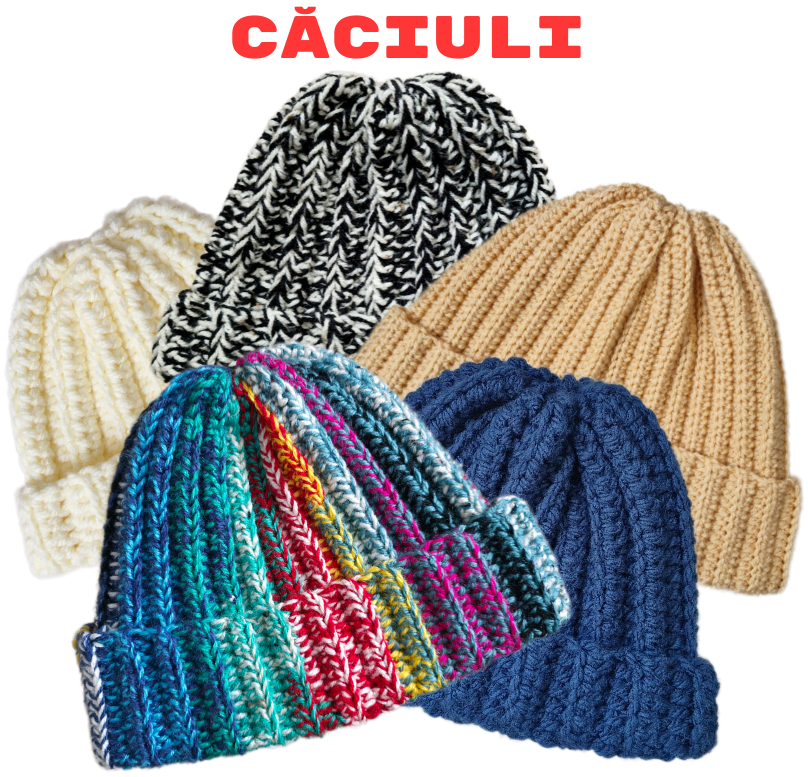
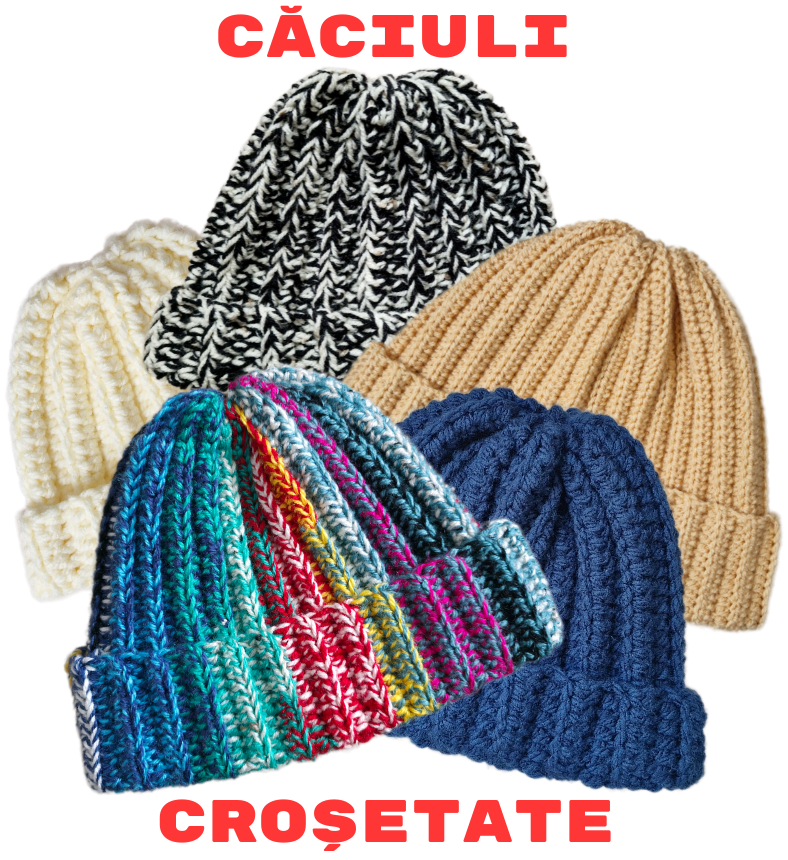
add dolls section

diff --git a/src/App.js b/src/App.js
@@ -1,12 +1,15 @@
 import './App.css';
 import { useState, useMemo, useEffect, useRef } from 'react';
 import { NavLink, Routes, Route, useLocation } from 'react-router-dom';
+
 import { animals } from './animals';
 import { wearables } from './wearables';
 import { homeware } from './homeware';
+
 import plushies from './products/plushies.png';
 import beanies from './products/beanies.png';
 import baskets from './products/baskets.png';
+import dolls from './products/dolls.png';
 
 function App() {
   const CONTACT_EMAIL = 'croseteleirinei@gmail.com';
@@ -18,6 +21,7 @@ function App() {
     contact: '/contact',
     products: '/products',
     home: '/',
+    dolls: '/dolls',
   };
 
   const ITEMS_PER_PAGE = 12;
@@ -281,6 +285,24 @@ function App() {
     }
   }, []);
 
+  // Dolly assets
+  const dollyAssets = useMemo(() => {
+    try {
+      const ctx = require.context('./dolly', false, /\.(png|jpe?g|webp|gif)$/i);
+      const images = [];
+      ctx.keys().forEach((k) => {
+        images.push(ctx(k));
+      });
+      return images.sort((a, b) => {
+        const numA = parseInt(a.match(/\d+/)?.[0] || '0');
+        const numB = parseInt(b.match(/\d+/)?.[0] || '0');
+        return numA - numB;
+      });
+    } catch (e) {
+      return [];
+    }
+  }, []);
+
   function HomePage() {
     const featuredAnimals = featuredAnimalsRef.current || [];
     const newProducts = useMemo(() => {
@@ -538,6 +560,12 @@ function App() {
         <div className="container">
           <div className="animals-grid">
             <figure className="animal-card background-image">
+              <NavLink to={ROUTES.dolls}>
+                <img src={dolls} alt='dolls' loading="lazy" />
+              </NavLink>
+            </figure>
+
+            <figure className="animal-card background-image">
               <NavLink to={ROUTES.plushies}>
                 <img src={plushies} alt='plushies' loading="lazy" />
               </NavLink>
@@ -554,6 +582,65 @@ function App() {
                 <img src={baskets} alt='baskets' loading="lazy" />
               </NavLink>
             </figure>
+          </div>
+        </div>
+      </section>
+    );
+  }
+
+  function DollPage() {
+    const [selectedOutfit, setSelectedOutfit] = useState(0);
+    
+    const outfits = dollyAssets.map((dolly, index) => {
+      return {
+        id: index,
+        mainImage: dolly || null,
+        thumbnail: dolly || null,
+      };
+    });
+
+    const currentOutfit = outfits[selectedOutfit];
+    const mainImage = currentOutfit?.mainImage || dollyAssets[0] || null;
+
+    return (
+      <section className="section doll-page">
+        <div className="container">
+          <div className="doll-page-content">
+            <div className="doll-page-image">
+              {mainImage && (
+                <img src={mainImage} alt={currentOutfit?.name || 'Păpușă croșetată'} />
+              )}
+            </div>
+            <div className="doll-page-info">
+              <div className="doll-outfit-selection">
+                <div className="doll-outfit-options">
+                  {outfits.map((outfit, index) => (
+                    <div
+                      key={index}
+                      className={`doll-outfit-option ${selectedOutfit === index ? 'is-selected' : ''}`}
+                      onClick={() => setSelectedOutfit(index)}
+                    >
+                      {selectedOutfit === index && (
+                        <span className="doll-outfit-checkmark" aria-label="Selected">✔</span>
+                      )}
+                      {outfit.thumbnail && (
+                        <img 
+                          src={outfit.thumbnail} 
+                          alt={`Outfit ${index + 1}`} 
+                          className="doll-outfit-thumbnail"
+                        />
+                      )}
+                    </div>
+                  ))}
+                </div>
+              </div>
+            </div>
+            <a 
+                href={ROUTES.contact} 
+                className="landing-btn landing-btn-primary doll-page-cta"
+              >
+                Comandă Păpușa Personalizată
+              </a>
           </div>
         </div>
       </section>
@@ -600,6 +687,7 @@ function App() {
         <Route path={ROUTES.wearables} element={<WearablesPageStable />} />
         <Route path={ROUTES.products} element={<ProductsPage/>} />
         <Route path={ROUTES.contact} element={<ContactPage />} />
+        <Route path={ROUTES.dolls} element={<DollPage />} />
         <Route path="*" element={<HomePage />} />
       </Routes>
       <ItemModal item={selectedItem} onClose={() => setSelectedItem(null)} />

diff --git a/src/App.css b/src/App.css
@@ -782,15 +782,158 @@ html, body {
   padding: 2rem 0 3rem 0;
 }
 
-.section.new-products {
+/* Doll Page */
+.doll-page {
   padding: 3rem 0;
 }
 
-.new-products .animals-grid {
-  grid-template-columns: repeat(auto-fill, minmax(210px, 1fr));
-  gap: 12px;
+.doll-page-content {
+  display: grid;
+  grid-template-columns: 1fr 1fr;
+  gap: 4rem;
+  align-items: start;
 }
 
-.new-products {
-  background-color: rgba(254, 54, 54, 0.2);
+.doll-page-image {
+  position: relative;
+  width: 500px;
+  height: 750px;
+  background: #ffffff;
+  display: flex;
+  align-items: center;
+  justify-content: center;
+  flex-shrink: 0;
+}
+
+.doll-page-image img {
+  width: 100%;
+  height: 100%;
+  object-fit: contain;
+  display: block;
+}
+
+.doll-page-info {
+  display: flex;
+  flex-direction: column;
+  gap: 1.5rem;
+  place-self: center;
+}
+
+.doll-page-title {
+  font-size: 2.5rem;
+  font-weight: 900;
+  margin: 0 0 0.5rem 0;
+  color: #000000;
+  line-height: 1.2;
+  letter-spacing: -0.02em;
+}
+
+.doll-page-description {
+  font-size: 1rem;
+  color: #000000;
+  margin: 0 0 1rem 0;
+  line-height: 1.6;
+}
+
+.doll-outfit-selection {
+  display: flex;
+  flex-direction: column;
+  gap: 0.75rem;
+  margin-top: 0;
+}
+
+.doll-outfit-header {
+  font-size: 0.875rem;
+  font-weight: 800;
+  margin: 0 0 0.5rem 0;
+  color: #000000;
+  text-transform: uppercase;
+  letter-spacing: 0.05em;
+}
+
+.doll-outfit-options {
+  display: grid;
+  grid-template-columns: repeat(auto-fill, minmax(60px, 1fr));
+  gap: 0.75rem;
+}
+
+.doll-outfit-option {
+  position: relative;
+  cursor: pointer;
+  transition: all 0.2s ease;
+  aspect-ratio: 1;
+  display: flex;
+  align-items: center;
+  justify-content: center;
+}
+
+.doll-outfit-option:hover {
+  border-color: #a0a0a0;
+  transform: scale(1.05);
+}
+
+.doll-outfit-option.is-selected {
+  border-color: #fe3636;
+  border-width: 2px;
+}
+
+.doll-outfit-checkmark {
+  position: absolute;
+  top: 0.25rem;
+  right: 0.25rem;
+  width: 18px;
+  height: 18px;
+  background: #fe3636;
+  color: #ffffff;
+  border-radius: 50%;
+  display: flex;
+  align-items: center;
+  justify-content: center;
+  font-size: 0.7rem;
+  font-weight: 800;
+  z-index: 1;
+  line-height: 1;
+}
+
+.doll-outfit-thumbnail {
+  width: 100%;
+  height: 100%;
+  object-fit: contain;
+  display: block;
+  background: #ffffff;
+}
+
+.doll-page-content > .doll-page-cta {
+  grid-column: 1 / -1;
+  justify-self: center;
+  margin-top: 2rem;
+  text-align: center;
+  padding: 1rem 2rem;
+}
+
+@media (max-width: 768px) {
+  .doll-page-content {
+    grid-template-columns: 1fr;
+    gap: 2.5rem;
+  }
+
+  .doll-page-title {
+    font-size: 2rem;
+  }
+
+  .doll-outfit-options {
+    grid-template-columns: repeat(auto-fill, minmax(50px, 1fr));
+    gap: 0.5rem;
+  }
+
+  .doll-page-image {
+    width: unset;
+    height: unset;
+  }
+
+  .doll-page-image img {
+    height: 400px;
+    width: auto;
+    justify-self: center;
+  }
 }
